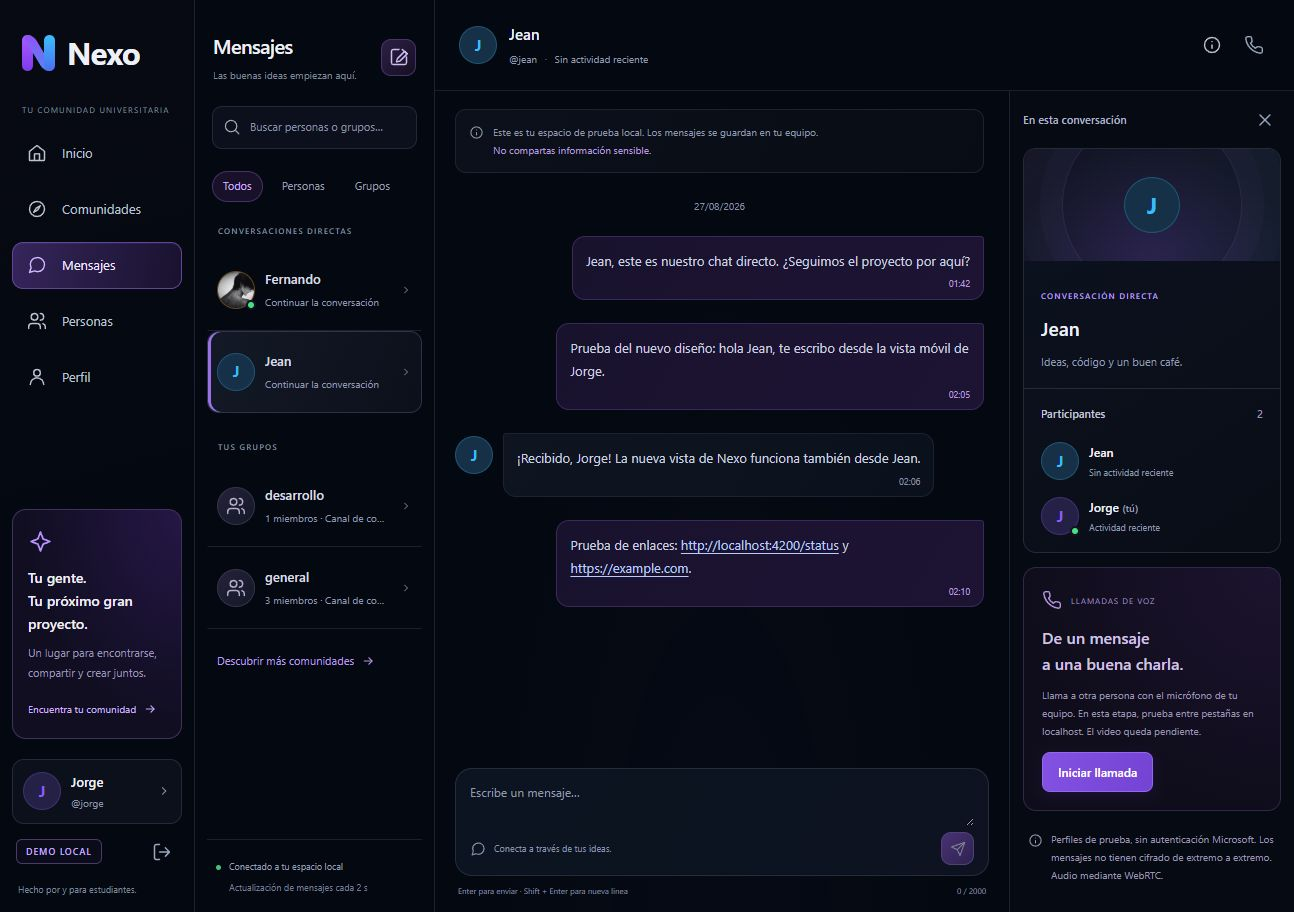
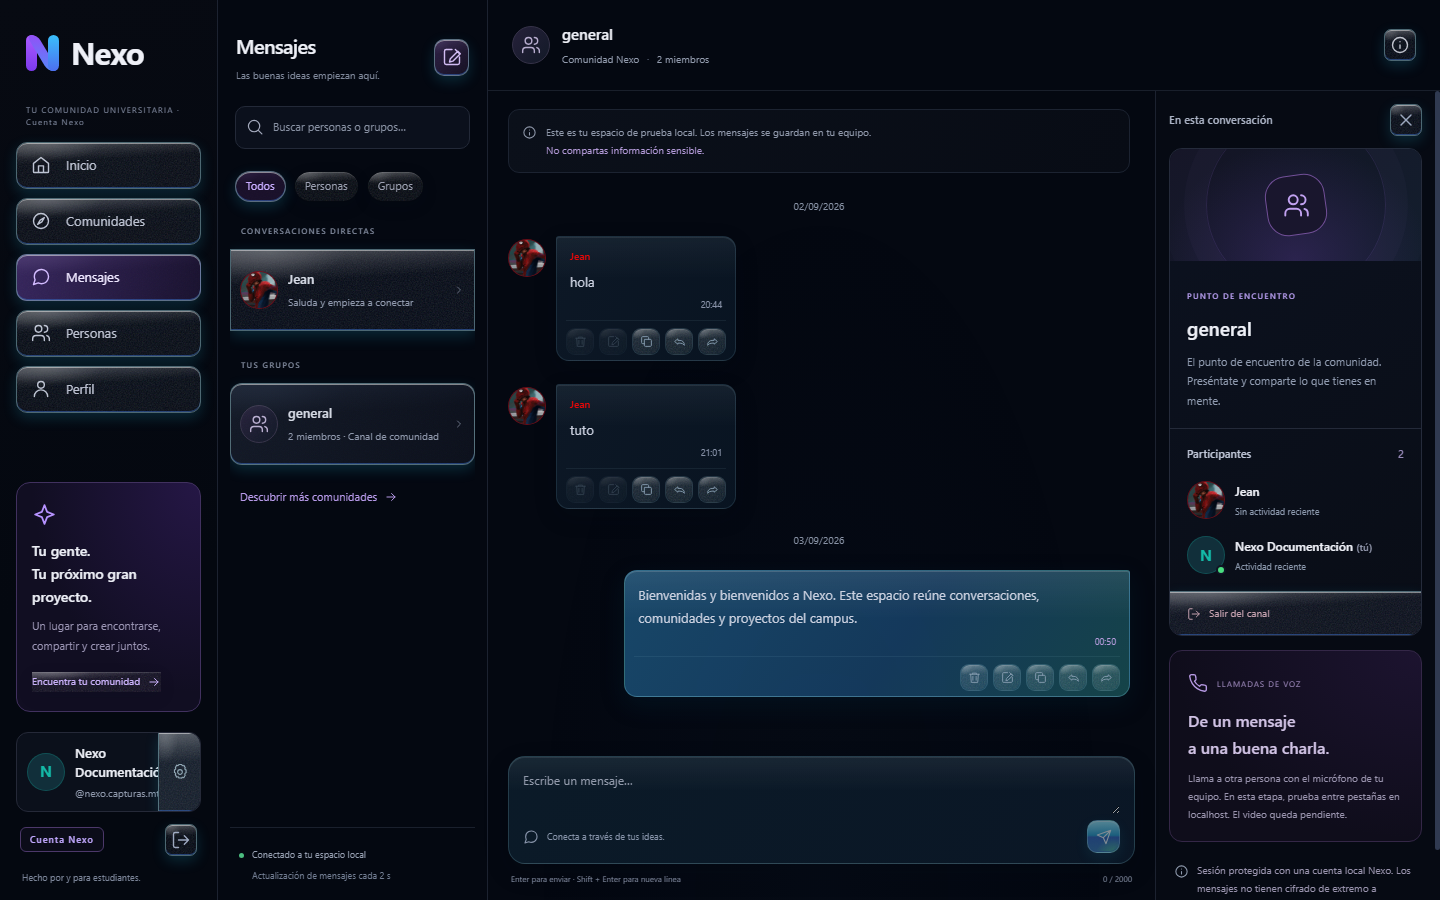
docs: actualizar capturas de la interfaz

diff --git a/README.md b/README.md
@@ -15,7 +15,7 @@
   <a href="CONTRIBUTING.md">Contribuir</a>
 </p>
 
-![Nexo: acceso con perfiles de demostración](docs/images/nexo-login.png)
+![Nexo: acceso autenticado con cuenta institucional o local](docs/images/nexo-login.png)
 
 > **Estado actual:** aplicación local con Angular, Spring Boot y PostgreSQL. Mantiene
 > la demo multiusuario y añade registro/login local más integración Microsoft Entra ID
@@ -51,7 +51,7 @@ teclado, conserva las preferencias visuales y adapta su disposición a móvil.
 
 ### Mensajería
 
-![Nexo: bandeja, conversación directa y participantes](docs/images/nexo-messages.png)
+![Nexo: bandeja, canal general y participantes](docs/images/nexo-messages.png)
 
 Canales y conversaciones directas con texto persistente, enlaces navegables,
 avatares y distinción entre mensajes propios y recibidos.
@@ -60,8 +60,17 @@ avatares y distinción entre mensajes propios y recibidos.
 
 ![Nexo: catálogo de comunidades y acciones de membresía](docs/images/nexo-communities.png)
 
-Cuatro canales iniciales: `general`, `desarrollo`, `ideas-y-proyectos` y
-`vida-universitaria`. Cada perfil puede consultar sus membresías, unirse y salir.
+El espacio autenticado local inicia con el canal `general`; el modo demostración
+mantiene además `desarrollo`, `ideas-y-proyectos` y `vida-universitaria`. Cada
+perfil puede consultar sus membresías, unirse y salir.
+
+### Apariencia
+
+![Nexo: configuración de temas y estilos de botones](docs/images/nexo-settings.png)
+
+Los temas predeterminado, OLED y claro pueden combinarse con los acabados Mate,
+Style SkayGlass y Y2K 2000. La selección se aplica al instante y permanece en el
+navegador.
 
 <details>
 <summary><strong>Ver perfil y foto opcional</strong></summary>
@@ -74,8 +83,9 @@ quitar la imagen para recuperar las iniciales.
 </details>
 
 Son capturas de la aplicación local real, no de funcionalidades futuras.
-Los perfiles, mensajes y fotos visibles corresponden al entorno de demostración;
-las imágenes no importan esos datos a una instalación nueva.
+La cuenta y el mensaje preparados para documentar la interfaz se eliminaron del
+entorno local después de capturarlos; las imágenes no importan esos datos a una
+instalación nueva.
 [Origen de las capturas](docs/images/README.md).
 
 <a id="alcance"></a>

diff --git a/docs/images/README.md b/docs/images/README.md
@@ -1,19 +1,22 @@
 # Capturas de Nexo
 
-Capturas reales de la aplicación local, tomadas el 27 de agosto de 2026.
+Capturas reales de la aplicación local, tomadas el 3 de septiembre de 2026.
 
 | Archivo | Vista |
 | --- | --- |
-| nexo-login.png | Acceso demo y branding Nexo |
-| nexo-messages.png | Conversación Jorge–Jean, bandeja y participantes |
-| nexo-communities.png | Catálogo de canales y membresías |
-| nexo-profile.png | Perfil de Jean y selección de foto opcional |
+| nexo-login.png | Acceso institucional/local y branding Nexo |
+| nexo-messages.png | Canal general, bandeja, acciones y participantes |
+| nexo-communities.png | Catálogo autenticado y estado de membresía |
+| nexo-profile.png | Perfil propio, foto opcional y acceso a edición |
+| nexo-settings.png | Temas y estilos de botones combinables |
 
 No se generaron mockups ni se alteró el contenido del DOM para estas imágenes.
-Las capturas muestran datos del entorno de demostración. No contienen credenciales,
-herramientas de desarrollo ni información de la base de datos. Los datos visibles
-no se importan automáticamente a una instalación nueva.
+Las capturas muestran una cuenta local y un mensaje temporales, creados únicamente
+para documentar la interfaz y eliminados después de la sesión. No contienen
+credenciales reales, herramientas de desarrollo ni información de la base de datos.
+Los datos visibles no se importan automáticamente a una instalación nueva.
 
-Para actualizarlas, iniciar la demo, usar datos aptos para publicación, capturar
-la vista y revisar la imagen completa antes de versionarla. No incluir mensajes
-privados, tokens, ventanas de permisos ni credenciales.
+Para actualizarlas, iniciar la aplicación local, usar una cuenta de documentación
+con datos aptos para publicación, capturar la vista y revisar la imagen completa
+antes de versionarla. No incluir mensajes privados, tokens, ventanas de permisos
+ni credenciales.
